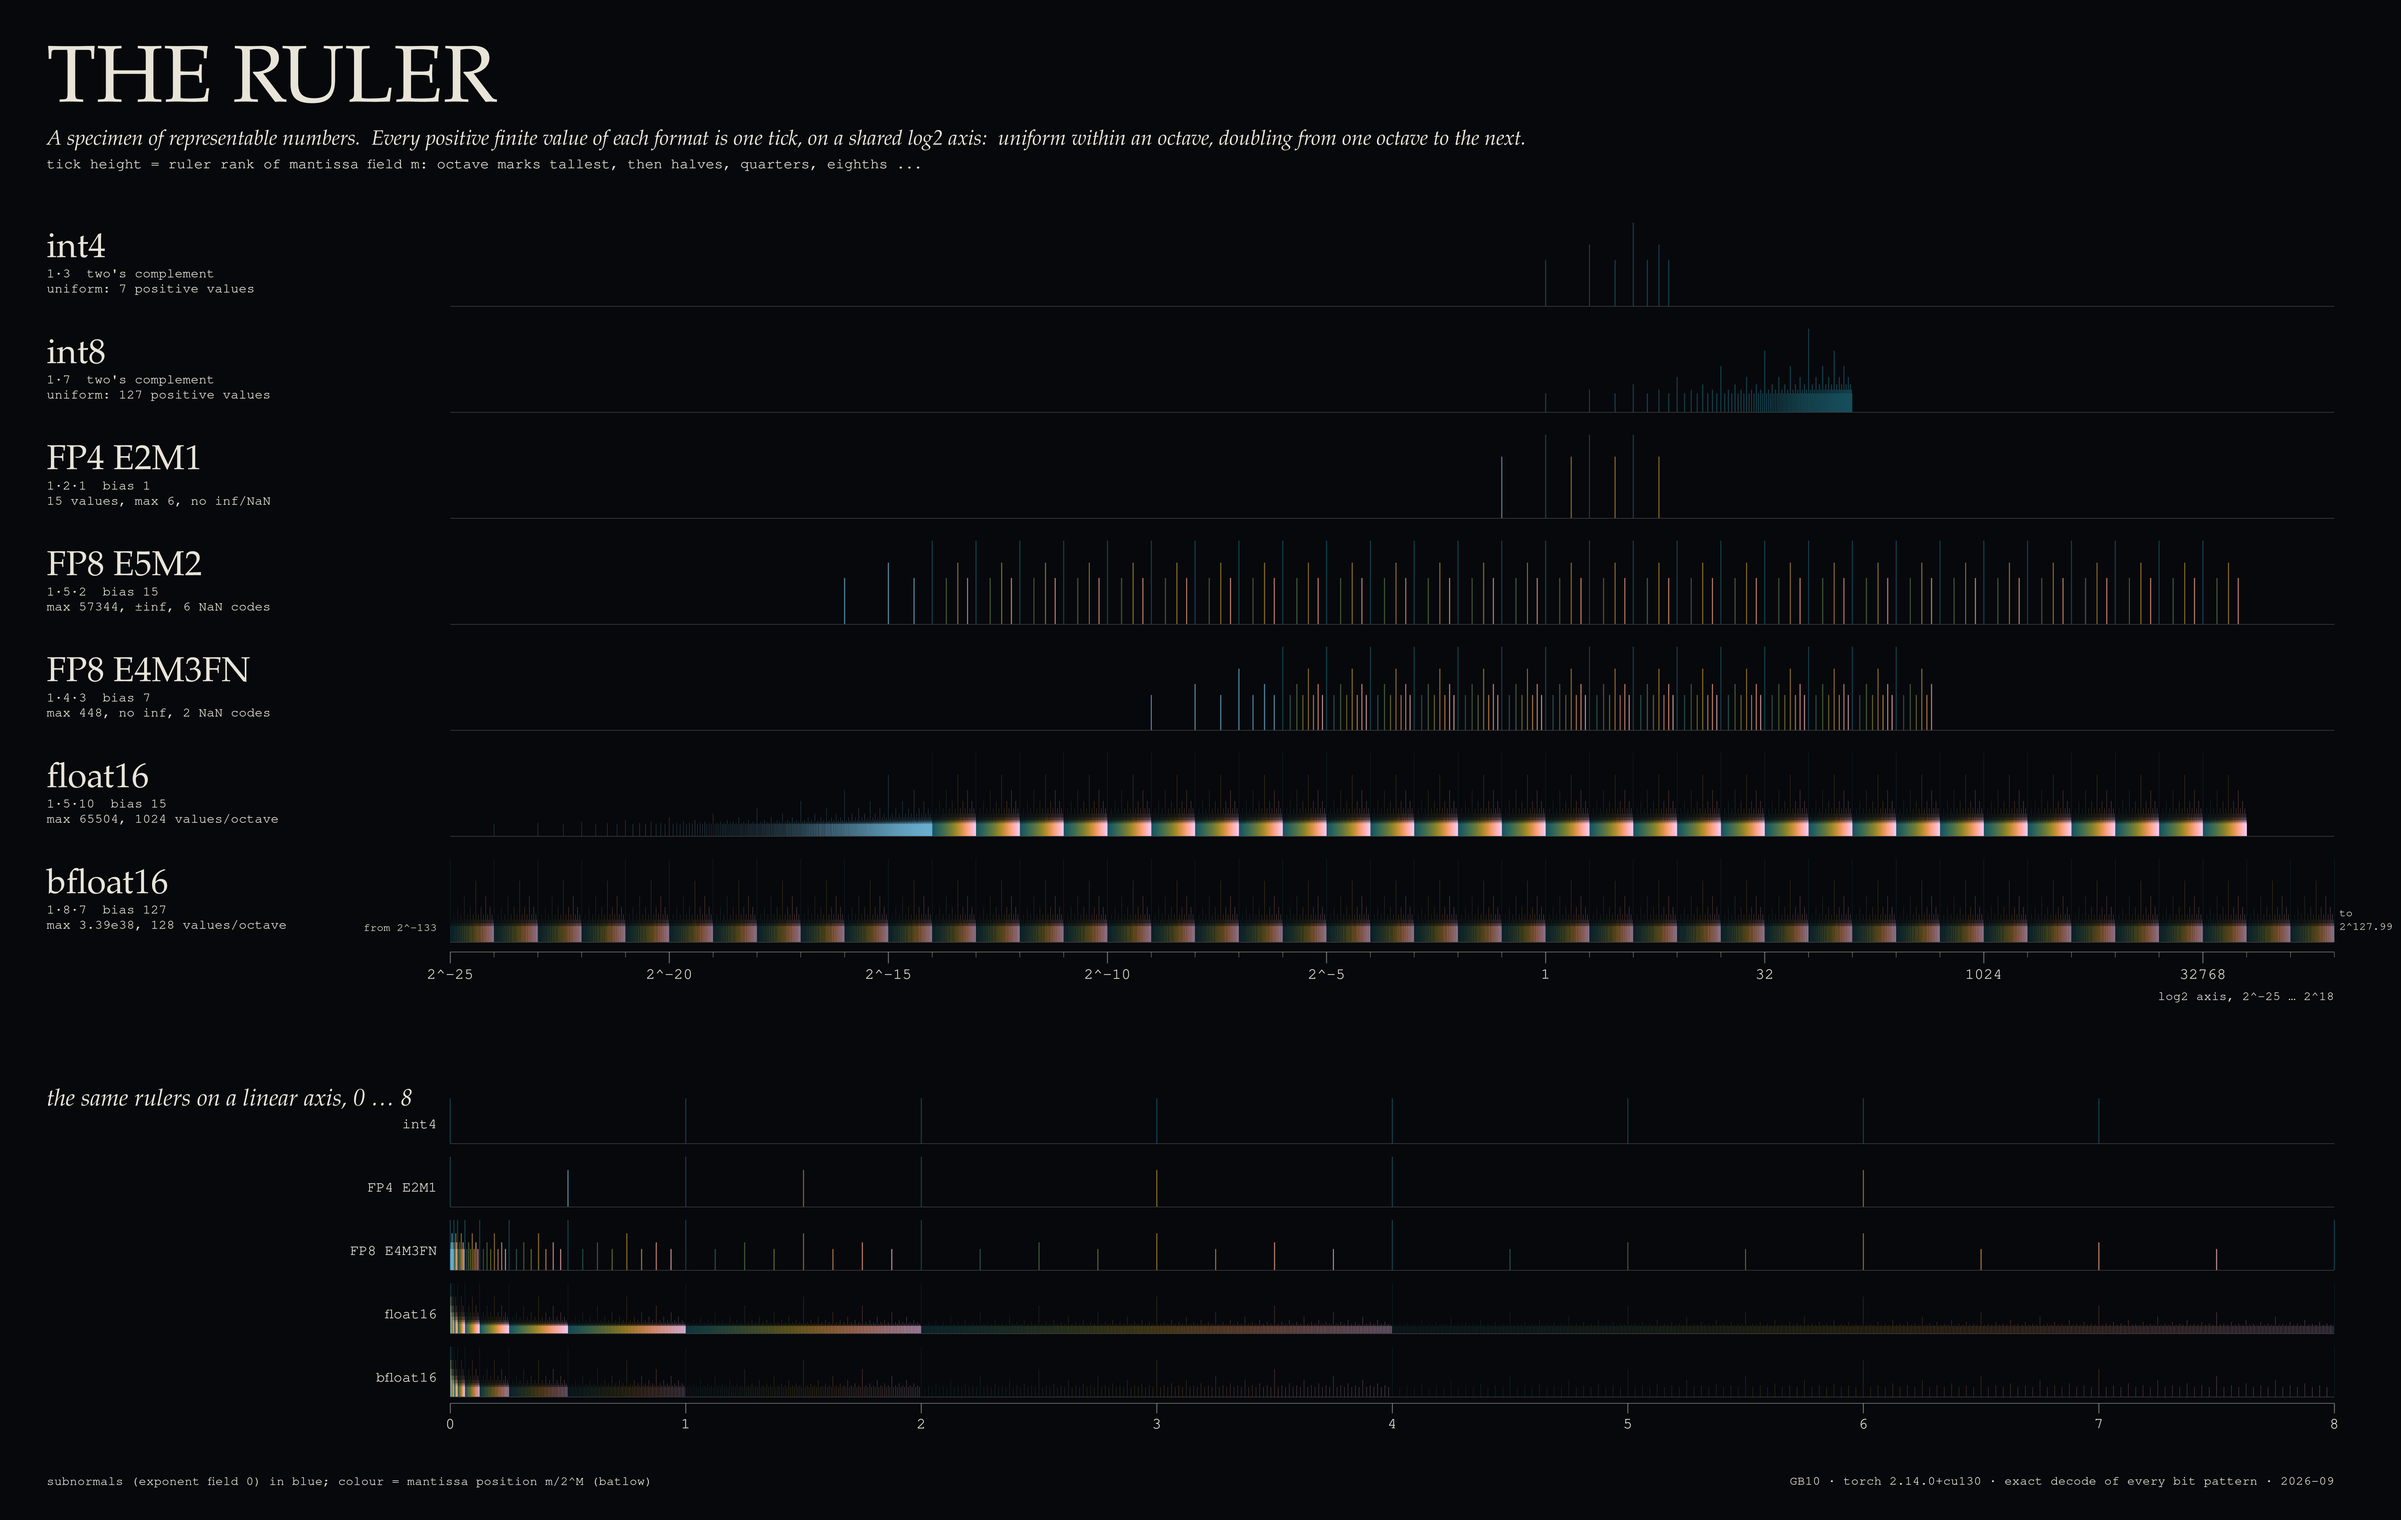
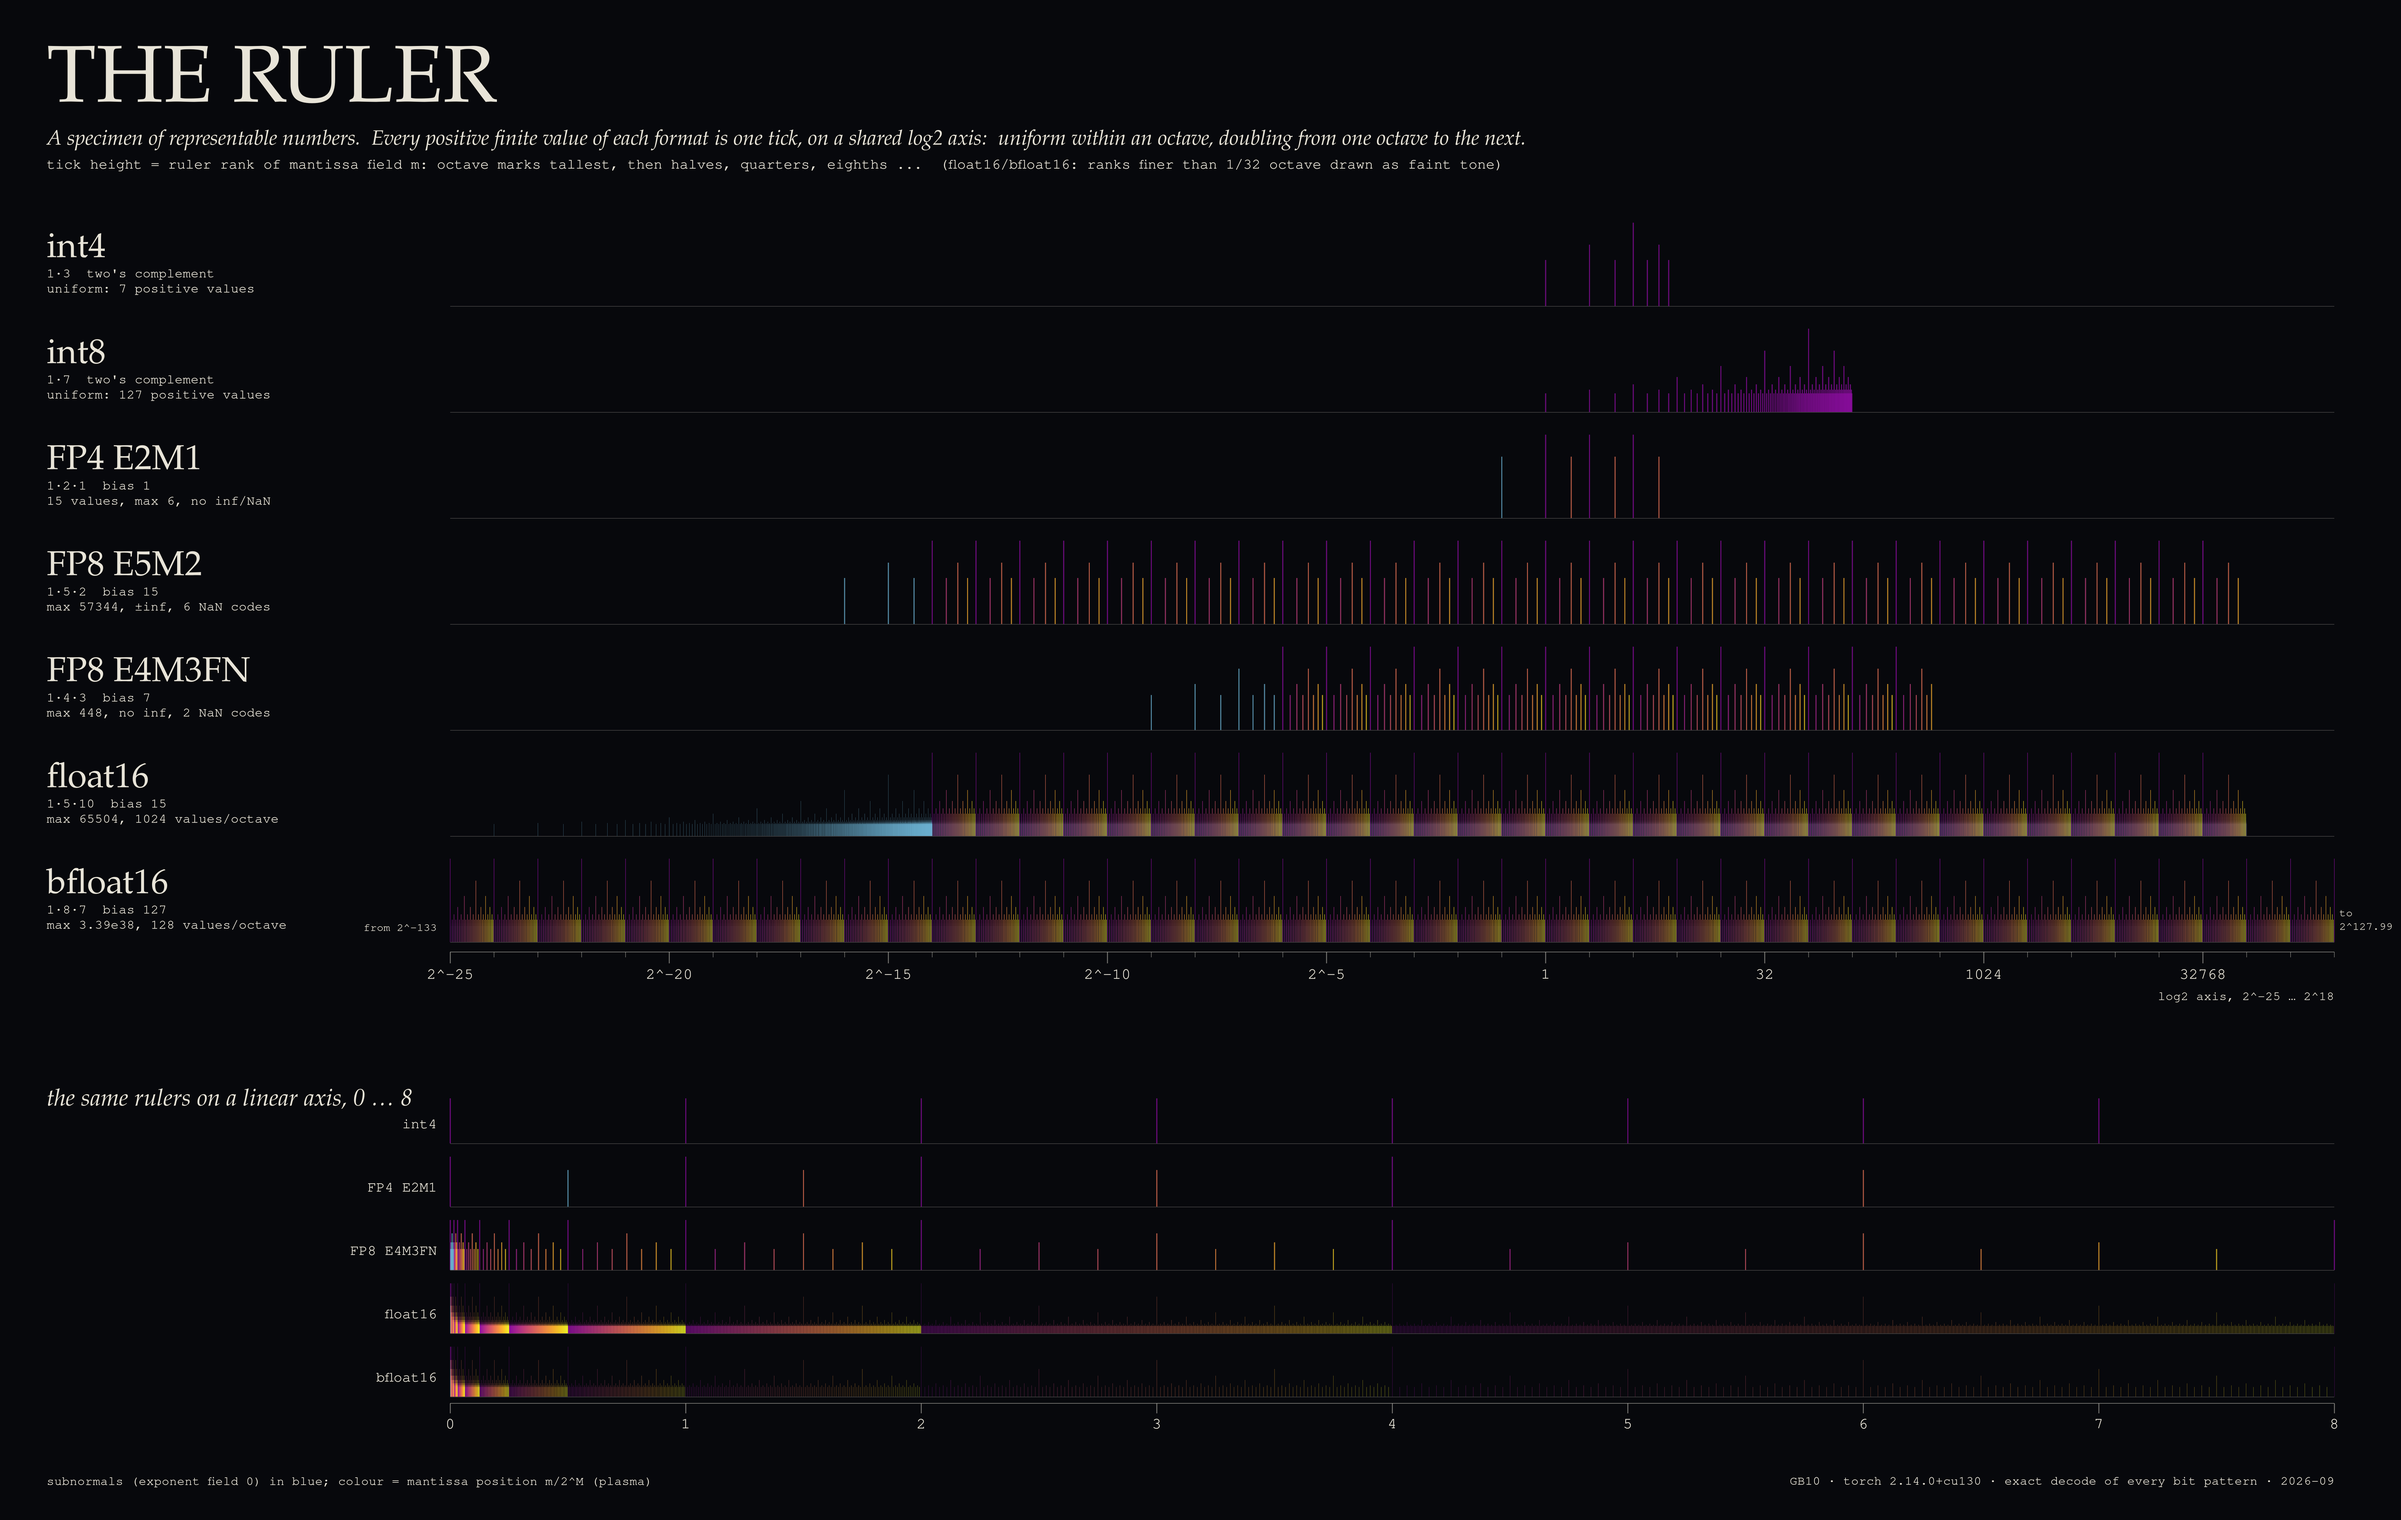
hardware/float-ruler: specimen sheets, ruler + sawtooth in 3 styles

diff --git a/hardware/float-ruler/render_specimen.py b/hardware/float-ruler/render_specimen.py
@@ -63,7 +63,8 @@ def build_layers(style, mode):
     main = InkLayer(H, W, rgb=rgb)
     sub = InkLayer(H, W)
     rules = InkLayer(H, W)
-    cmap = plt.get_cmap("cmc.batlow")
+    fine = InkLayer(H, W)
+    cmap = plt.get_cmap("plasma")
     for i, (name, fmt, nb, _, _) in enumerate(ROWS):
         yb = ROW_Y0 + (i + 1) * ROW_PITCH - 40
         v, h, is_sub, frac = heights(fmt, nb, mode)
@@ -72,8 +73,18 @@ def build_layers(style, mode):
         dense = fmt is not None and fmt.M >= 7
         w = 0.45 if dense else 3.0
         s = win & ~is_sub
-        cols = cmap(0.2 + 0.8 * frac[s]) if rgb else None
-        main.ticks(x[s], yb, TICK_H * h[s], w_px=w, colors=cols)
+        if dense and mode == "ruler":
+            # ticks whose on-sheet spacing would be < ~3 px go to a faint tone layer (every value still drawn)
+            px_oct = (X1 - X0) / (HI - LO)
+            lcut = int(np.floor(np.log2(px_oct / 3.0)))
+            lev = fmt.M - trailing_zeros(positive_finite(fmt)["m"], fmt.M)
+            coarse = lev <= lcut
+            main.ticks(x[s & coarse], yb, TICK_H * h[s & coarse], w_px=1.4,
+                       colors=cmap(0.3 + 0.7 * frac[s & coarse]) if rgb else None)
+            fine.ticks(x[s & ~coarse], yb, TICK_H * h[s & ~coarse], w_px=w)
+        else:
+            cols = cmap(0.3 + 0.7 * frac[s]) if rgb else None
+            main.ticks(x[s], yb, TICK_H * h[s], w_px=w, colors=cols)
         s = win & is_sub
         if s.any():
             sub.ticks(x[s], yb, TICK_H * h[s], w_px=w)
@@ -102,7 +113,7 @@ def build_layers(style, mode):
         dense = fmt is not None and fmt.M >= 7
         w = 0.45 if dense else 3.0
         s = sel & ~is_sub
-        main.ticks(linx(v[s]), yb, LIN_H * h[s], w_px=w, colors=cmap(0.2 + 0.8 * frac[s]) if rgb else None)
+        main.ticks(linx(v[s]), yb, LIN_H * h[s], w_px=w, colors=cmap(0.3 + 0.7 * frac[s]) if rgb else None)
         s = sel & is_sub
         if s.any():
             sub.ticks(linx(v[s]), yb, LIN_H * h[s], w_px=w)
@@ -111,7 +122,7 @@ def build_layers(style, mode):
     for k in range(9):
         rules.ticks(np.array([linx(k)]), ya2 + 30, np.array([30]), w_px=2.5)
     rules.hline(ya2, X0, X1, 2.0, 1.0)
-    return main, sub, rules
+    return main, sub, rules, fine
 
 
 def text_figure(style, mode, bgimg=None, color="black"):
@@ -129,7 +140,7 @@ def text_figure(style, mode, bgimg=None, color="black"):
                 "log2 axis:  uniform within an octave, doubling from one octave to the next.",
       family=SERIF, fontsize=15, style="italic", va="center")
     hdesc = ("tick height = significand 1 + m/2^M: each octave is one rising ramp" if mode == "sawtooth" else
-             "tick height = ruler rank of mantissa field m: octave marks tallest, then halves, quarters, eighths ...")
+             "tick height = ruler rank of mantissa field m: octave marks tallest, then halves, quarters, eighths ...  (float16/bfloat16: ranks finer than 1/32 octave drawn as faint tone)")
     T(140, 500, hdesc, family=MONO, fontsize=10.5, va="center")
     for i, (name, fmt, nb, layout, note) in enumerate(ROWS):
         yb = ROW_Y0 + (i + 1) * ROW_PITCH - 40
@@ -154,7 +165,7 @@ def text_figure(style, mode, bgimg=None, color="black"):
     ya2 = LIN_Y0 + len(LIN_ROWS) * LIN_PITCH
     for k in range(9):
         T(linx(k), ya2 + 70, str(k), family=MONO, fontsize=11, ha="center", va="center")
-    sub_note = ("subnormals (exponent field 0) in blue; colour = mantissa position m/2^M (batlow)"
+    sub_note = ("subnormals (exponent field 0) in blue; colour = mantissa position m/2^M (plasma)"
                 if style == "observatory" else "subnormals (exponent field 0) in the second ink")
     T(140, H - 110, sub_note, family=MONO, fontsize=9, va="center")
     T(X1, H - 110, STACK, family=MONO, fontsize=9, ha="right", va="center")
@@ -170,26 +181,24 @@ def fig_coverage(fig):
 
 def render(style, mode):
     st = STYLES[style]
-    main, sub, rules = build_layers(style, mode)
+    main, sub, rules, fine = build_layers(style, mode)
     suffix = "_sawtooth" if mode == "sawtooth" else ""
     if style == "riso":
         txt = fig_coverage(text_figure(style, mode))[: H, : W]
-        A = main.alpha(1.6) * 0.95
+        A = np.clip(main.alpha(1.6) + 0.35 * fine.alpha(0.6), 0, 1) * 0.95
         B = np.clip(sub.alpha(1.6) + rules.alpha(1.0) + txt, 0, 1) * 0.95
         B = np.roll(np.roll(B, 5, 0), -6, 1)  # deliberate misregistration
         img = multiply(st["bg"], [(A, st["ink"]), (B, st["ink2"])])
         rng = np.random.default_rng(3)
-        img = np.clip(img * (1 - 0.035 * rng.random(img.shape[:2], dtype=np.float32))[..., None], 0, 1)
+        g = rng.integers(0, 4, (H // 3 + 1, W // 3 + 1)).repeat(3, 0).repeat(3, 1)[:H, :W]
+        img = np.clip(img * (1 - 0.012 * g)[..., None], 0, 1)
         fig = plt.figure(figsize=(W / DPI, H / DPI), dpi=DPI)
         fig.figimage((img * 255).astype(np.uint8), 0, 0)
     else:
         gain = 1.3
         maincol = main.color(st["ink"]) if style == "observatory" else st["ink"]
-        img = composite(st["bg"], [(rules.alpha(1.0) * 0.8, st["ink"]), (main.alpha(gain), maincol),
+        img = composite(st["bg"], [(rules.alpha(1.0) * 0.8, st["ink"]), (fine.alpha(0.6) * 0.45, st["ink"] if style != "observatory" else "#8a7fa8"), (main.alpha(gain), maincol),
                                    (sub.alpha(gain), st["sub"])])
-        if style == "engraved":
-            rng = np.random.default_rng(3)
-            img = np.clip(img * (1 - 0.03 * rng.random(img.shape[:2], dtype=np.float32))[..., None], 0, 1)
         fig = text_figure(style, mode, bgimg=img[::-1] if False else img, color=st["ink"])
     save(fig, f"specimen_{style}{suffix}.png", dpi=DPI)
 
@@ -197,8 +206,7 @@ def render(style, mode):
 def main(styles):
     for style in styles:
         render(style, "ruler")
-        if style != "riso":
-            render(style, "sawtooth")
+        render(style, "sawtooth")
 
 
 if __name__ == "__main__":
